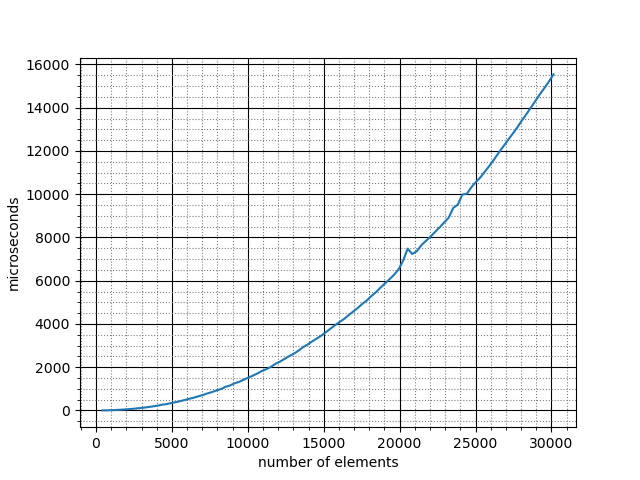
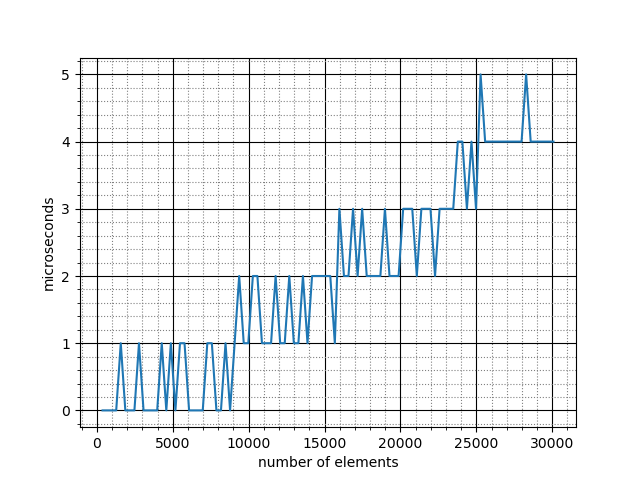
Add files via upload

Changed region(s): [[0.0, 0.125, 0.9062, 0.9375]]

diff --git a/script.py b/script.py
@@ -1,0 +1,52 @@
+import subprocess
+from subprocess import PIPE
+import random
+
+
+def check_results(a):
+    for l in range(len(a)-1):
+        if a[l+1] > a[l+1]:
+            return 'false'
+    return 'true'
+
+
+f = input('enter the name of the program: ')
+subprocess.run("gcc -o ../" + f + ".exe ../" + f + ".c")
+
+i = 1
+i = random.randint(i, 300+i)
+
+for m in range(1, 101):
+
+    if m < 10:
+        inp_t = '../input/input00'+str(m)+'.txt'
+        inp = open(inp_t, 'w+')
+        out = open('../output/output00'+str(m)+'.txt', 'w')
+    elif m < 100:
+        inp_t = '../input/input0'+str(m)+'.txt'
+        inp = open(inp_t, 'w+')
+        out = open('../output/output0'+str(m)+'.txt', 'w')
+    else:
+        inp_t = '../input/input100.txt'
+        inp = open(inp_t, 'w+')
+        out = open('../output/output100.txt', 'w')
+
+    i += 300
+    inp.write(str(i)+'\n')
+
+    for k in range(i):
+        n = str(random.randint(1, 100))
+        inp.write(n+' ')
+
+    inp.close()
+
+    cmd = subprocess.Popen("../" + f + ".exe " + inp_t, stdout=PIPE)
+    print(m)
+    cmd_out, cmd_err = cmd.communicate()
+
+    to_file = cmd_out.decode("utf-8")
+
+    checking = [int(item) for item in to_file.split()]
+    out.write(str(i)+'\n'+to_file+'\n'+check_results(checking))
+
+    out.close()

diff --git a/pir_sort.c b/pir_sort.c
@@ -25,39 +25,38 @@ long time_stop(){
 	return dtv.tv_sec*1000+dtv.tv_usec/1000;
 }
 
-void tree(int * a, int n, int i){
-	int tmp;
-	if(2*i+2<n){
-		if(a[i]>a[2*i+1]){
-			tmp = a[i];
-			a[i] = a[2*i+1];
-			a[2*i+1] = tmp;
+void swap(int * a, int * b)
+{
+    int tmp = *a;
+    *a = *b;
+    *b = tmp;
+}
+
+
+void tree(int * a, int n, int l){
+    int min;
+	while(2*l+2<n){
+		if(a[2*l+1]<a[2*l+2]){
+			min = 2*l+2;
+		} else {
+            min = 2*l+1;
+        }
+		if(a[min]>a[l]){
+            swap(&a[min], &a[l]);
 		}
-		if(a[i]>a[2*i+2]){
-			tmp = a[i];
-			a[i] = a[2*i+2];
-			a[2*i+2] = tmp;
-		}
-		tree(a, n, 2*i+1);
-		tree(a, n, 2*i+2);
-	} else if(2*i+1<n){
-		if(a[i]>a[2*i+1]){
-			tmp = a[i];
-			a[i] = a[2*i+1];
-			a[2*i+1] = tmp;
-		}
+		l = min;
 	}
 }
 
 void sort(int*a, int n) {
-	for (int i = n/2; i >= 0; i--){
-		//for (int l= n/2-1- i/2; l >=0; l--){
-			tree(a, n, i);
-		//}
-	}
-	if(n!=0){
-		sort(&a[1], n-1);
-	}
+    int tmp;
+    for (int l = n/2-1; l>=0; l--){
+        tree(a, n, l);
+    }
+    for (int i = n - 1; i > 0; --i){
+        swap(&a[0], &a[i]);
+        tree(a, i, 0);
+    }
 }
 
 int main(int argc, char * argv[]){
